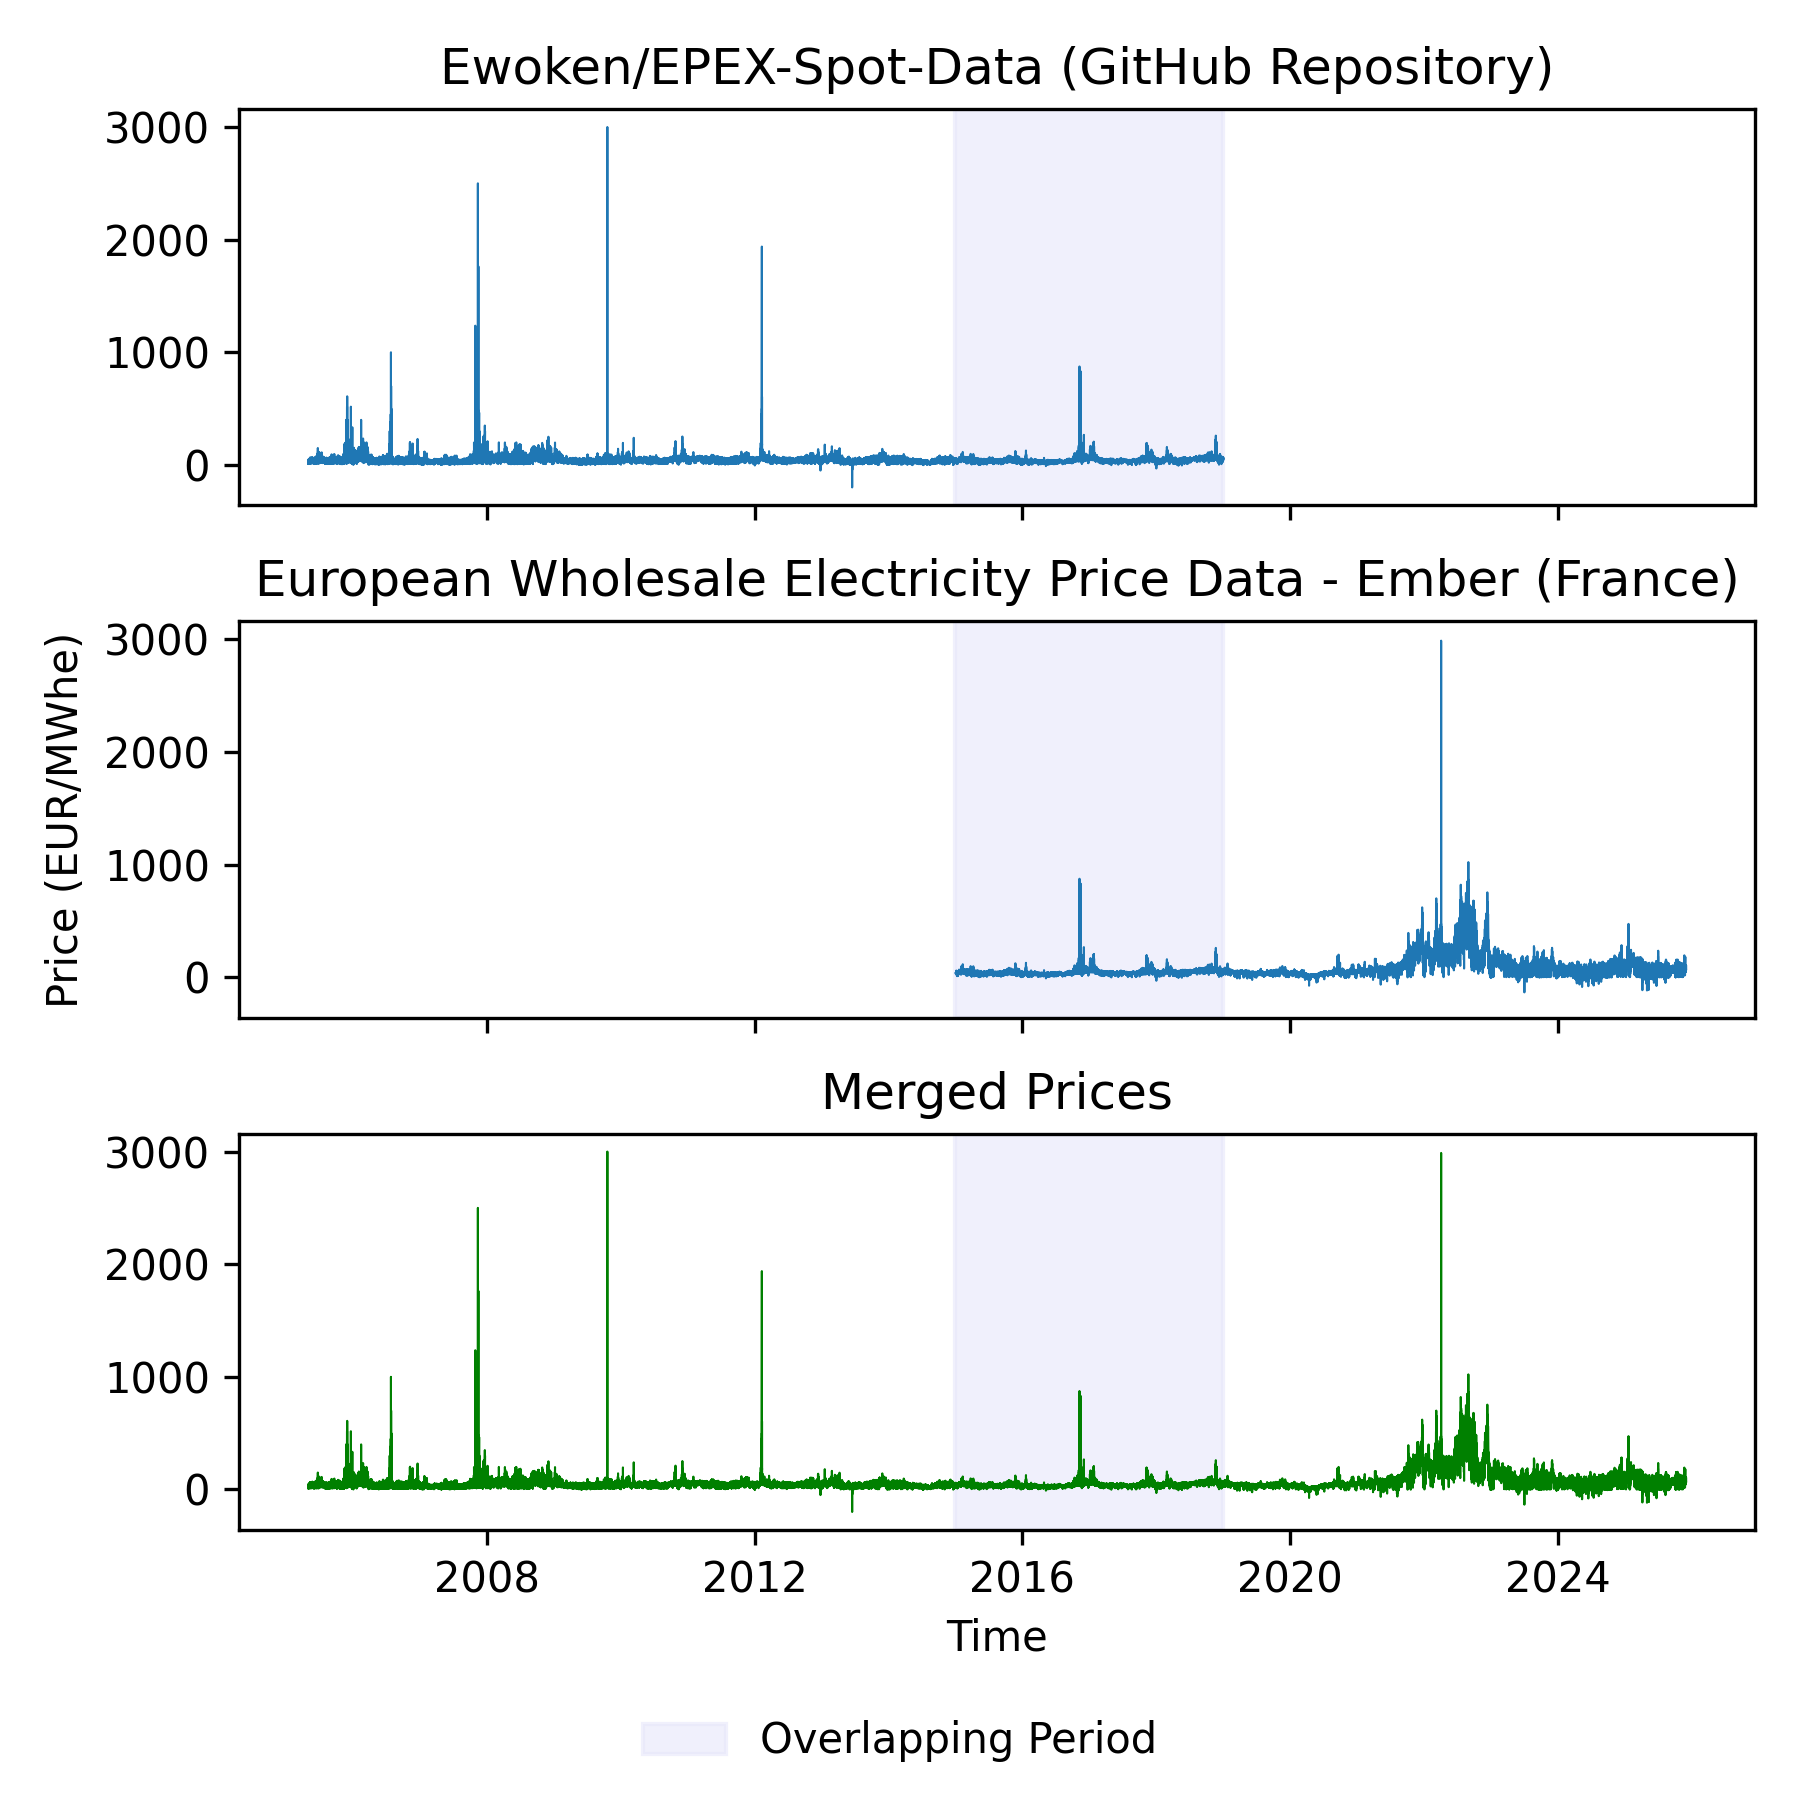
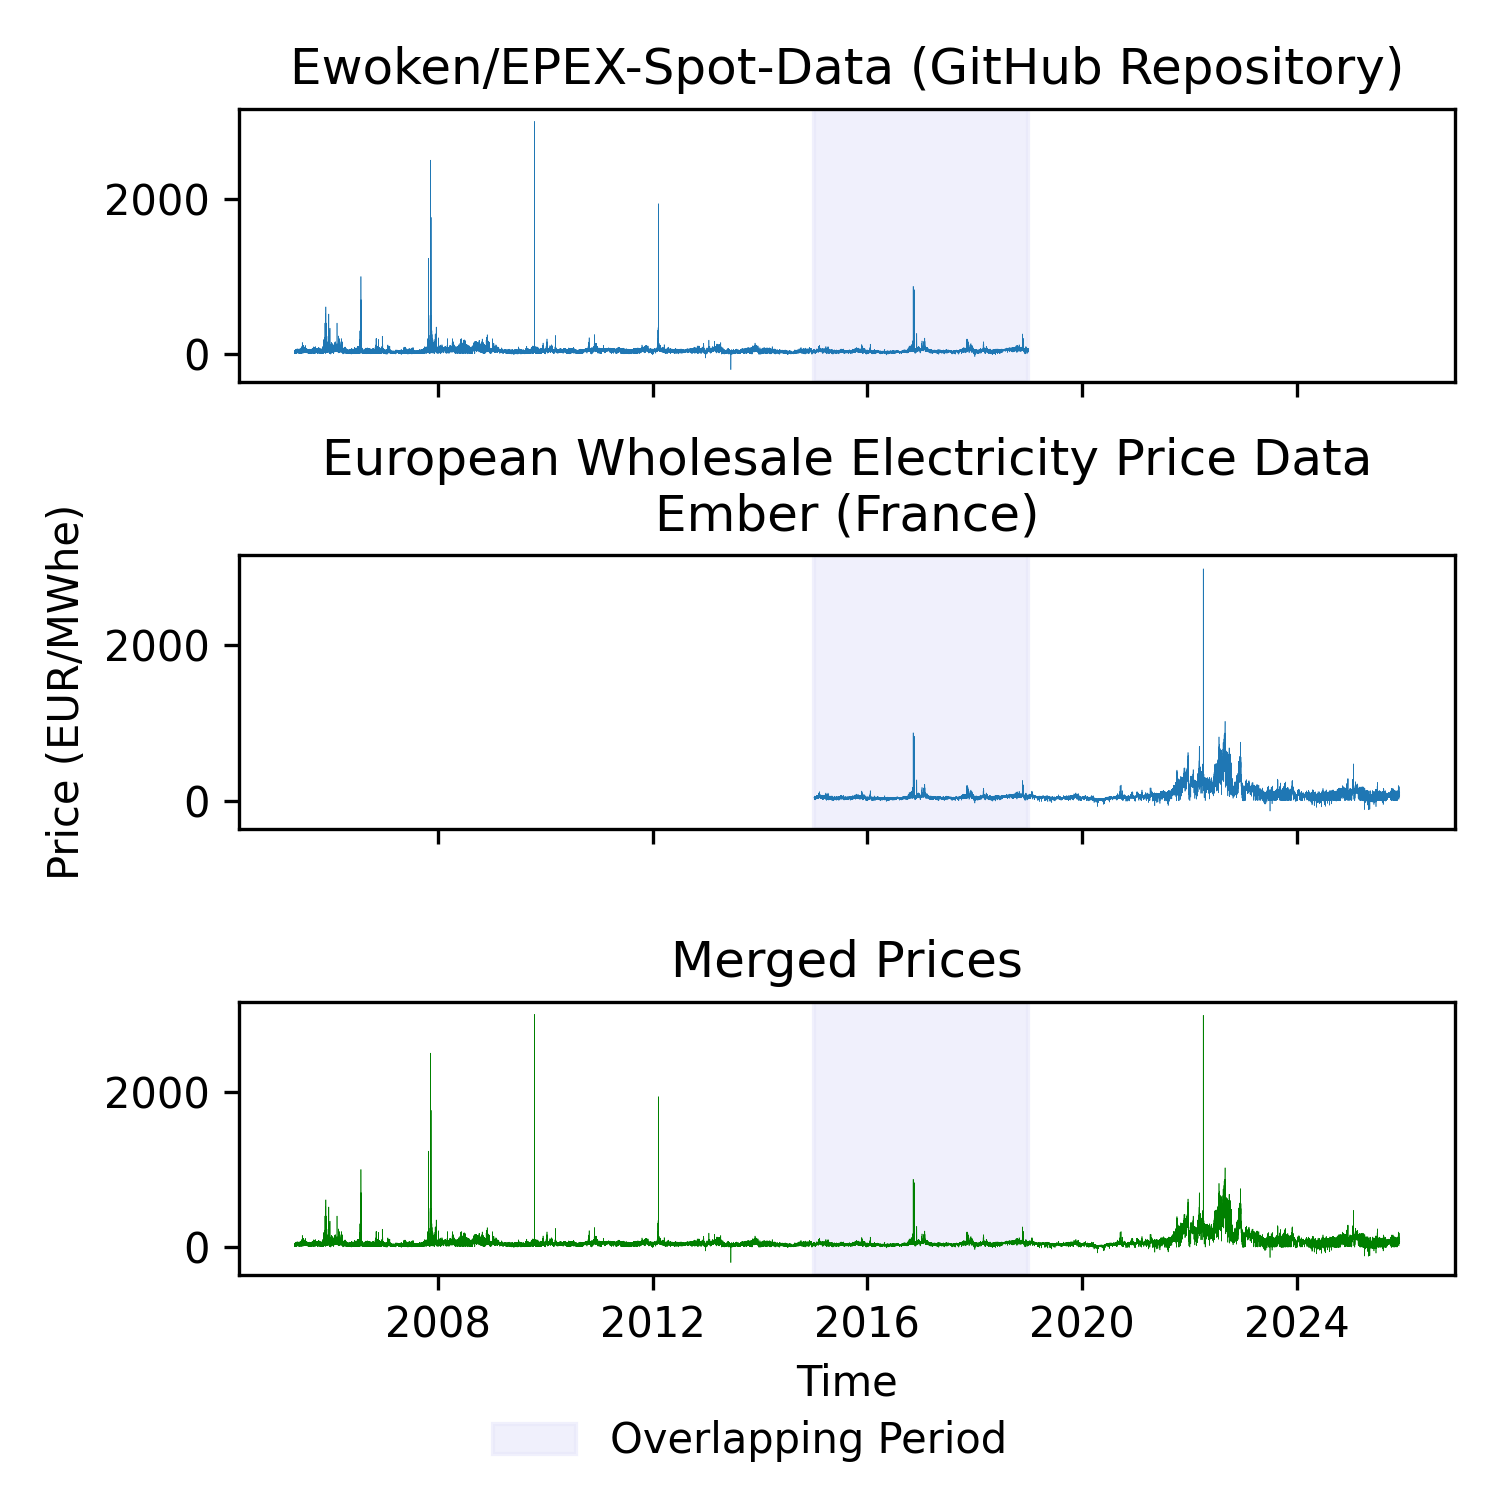
Fix elec merged plot

Changed region(s): [[0.0307, 0.0307, 0.9813, 0.9813], [0.0613, 0.6133, 0.1533, 0.644]]

diff --git a/src/owtp/visualisations/plot_elec_merge.py b/src/owtp/visualisations/plot_elec_merge.py
@@ -38,15 +38,15 @@ print(f"EPEX Spot Ember data range: {epex_spot_ember.index.min()} to {epex_spot_
 plot_start = pd.to_datetime("2005-05-01 00:00:00+00:00", utc=True)
 plot_end = pd.to_datetime("2025-12-01 00:00:00+00:00", utc=True)
 
-LINEWIDTH = .5
+LINEWIDTH = .15
 
-fig, axes = plt.subplots(3, 1, figsize=(6, 6), sharey=True, sharex=True)
+fig, axes = plt.subplots(3, 1, figsize=(5, 5), sharey=True, sharex=True)
 
 axes[0].plot(epex_spot['price_euros_mwh'].loc[plot_start:].index, epex_spot['price_euros_mwh'].loc[plot_start:], label='EPEX Spot Prices (Repo)', linewidth=LINEWIDTH)
 axes[0].set_title("Ewoken/EPEX-Spot-Data (GitHub Repository)")
 
 axes[1].plot(epex_spot_ember['Price (EUR/MWhe)'].loc[:plot_end].index, epex_spot_ember['Price (EUR/MWhe)'].loc[:plot_end], label='EPEX Spot Prices (Ember)', linewidth=LINEWIDTH)
-axes[1].set_title("European Wholesale Electricity Price Data - Ember (France)")
+axes[1].set_title("European Wholesale Electricity Price Data\nEmber (France)")
 axes[1].set_ylabel("Price (EUR/MWhe)")
 
 # Find overlap region
